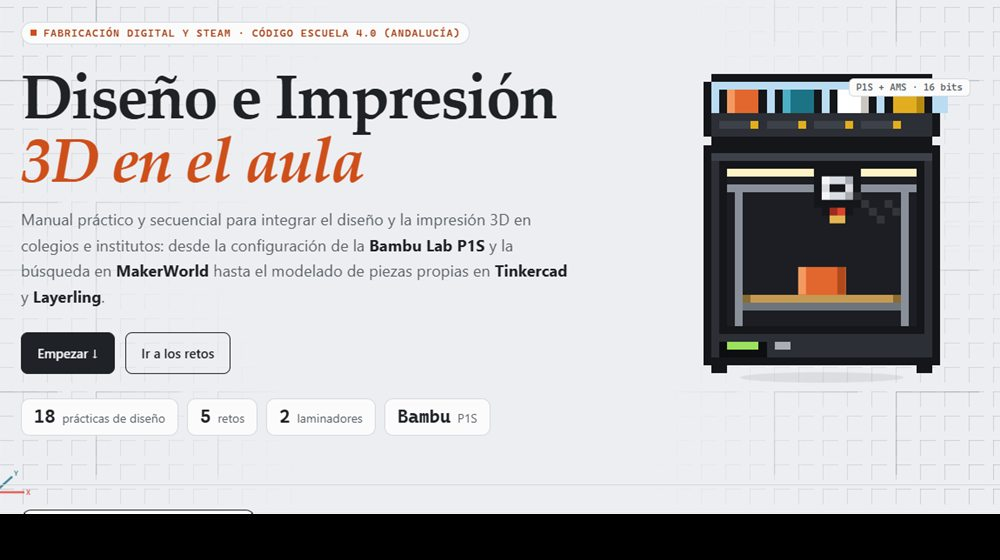
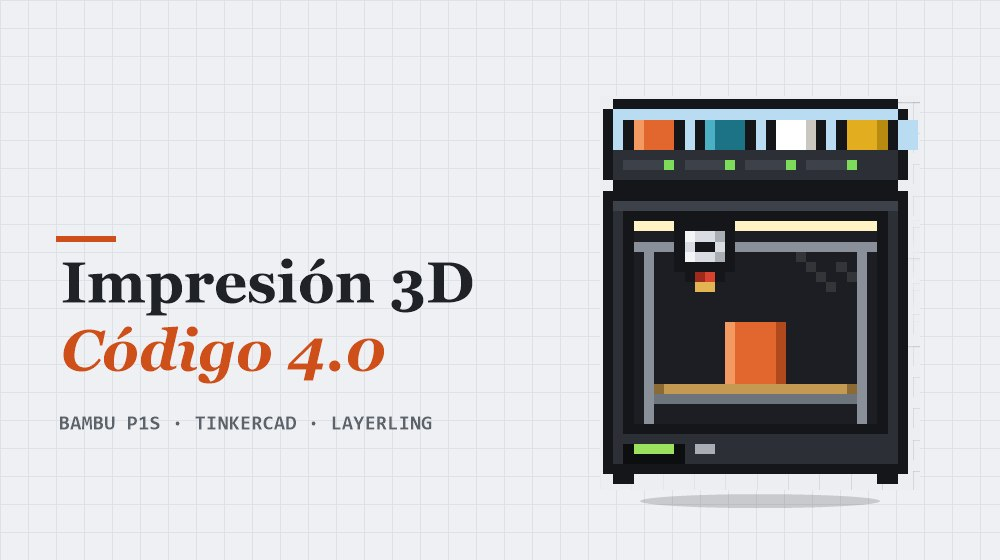
Nueva portada para la tarjeta de Impresión 3D Código 4.0

diff --git a/index.html b/index.html
@@ -275,7 +275,7 @@ footer .envoltura{display:flex;justify-content:space-between;gap:16px;flex-wrap:
 </div>
 </article>
 <article class="tarjeta">
-<div class="imagen" style="background-image:url('impresion-3d-codigo-4.jpg')"><span class="nivel">Primaria · ESO · Profesorado</span></div>
+<div class="imagen" style="background-image:url('impresion-3d-codigo-4.jpg?v=2')"><span class="nivel">Primaria · ESO · Profesorado</span></div>
 <div class="cuerpo">
 <h3>Impresión 3D Código 4.0</h3>
 <p>Manual de diseño e impresión 3D en el aula con la Bambu Lab P1S: montaje y conexión a Andared_IoT, MakerWorld, laminado en Bambu Studio, Tinkercad (con clases) y Layerling, 18 prácticas, 5 retos y guía imprimible.</p>
